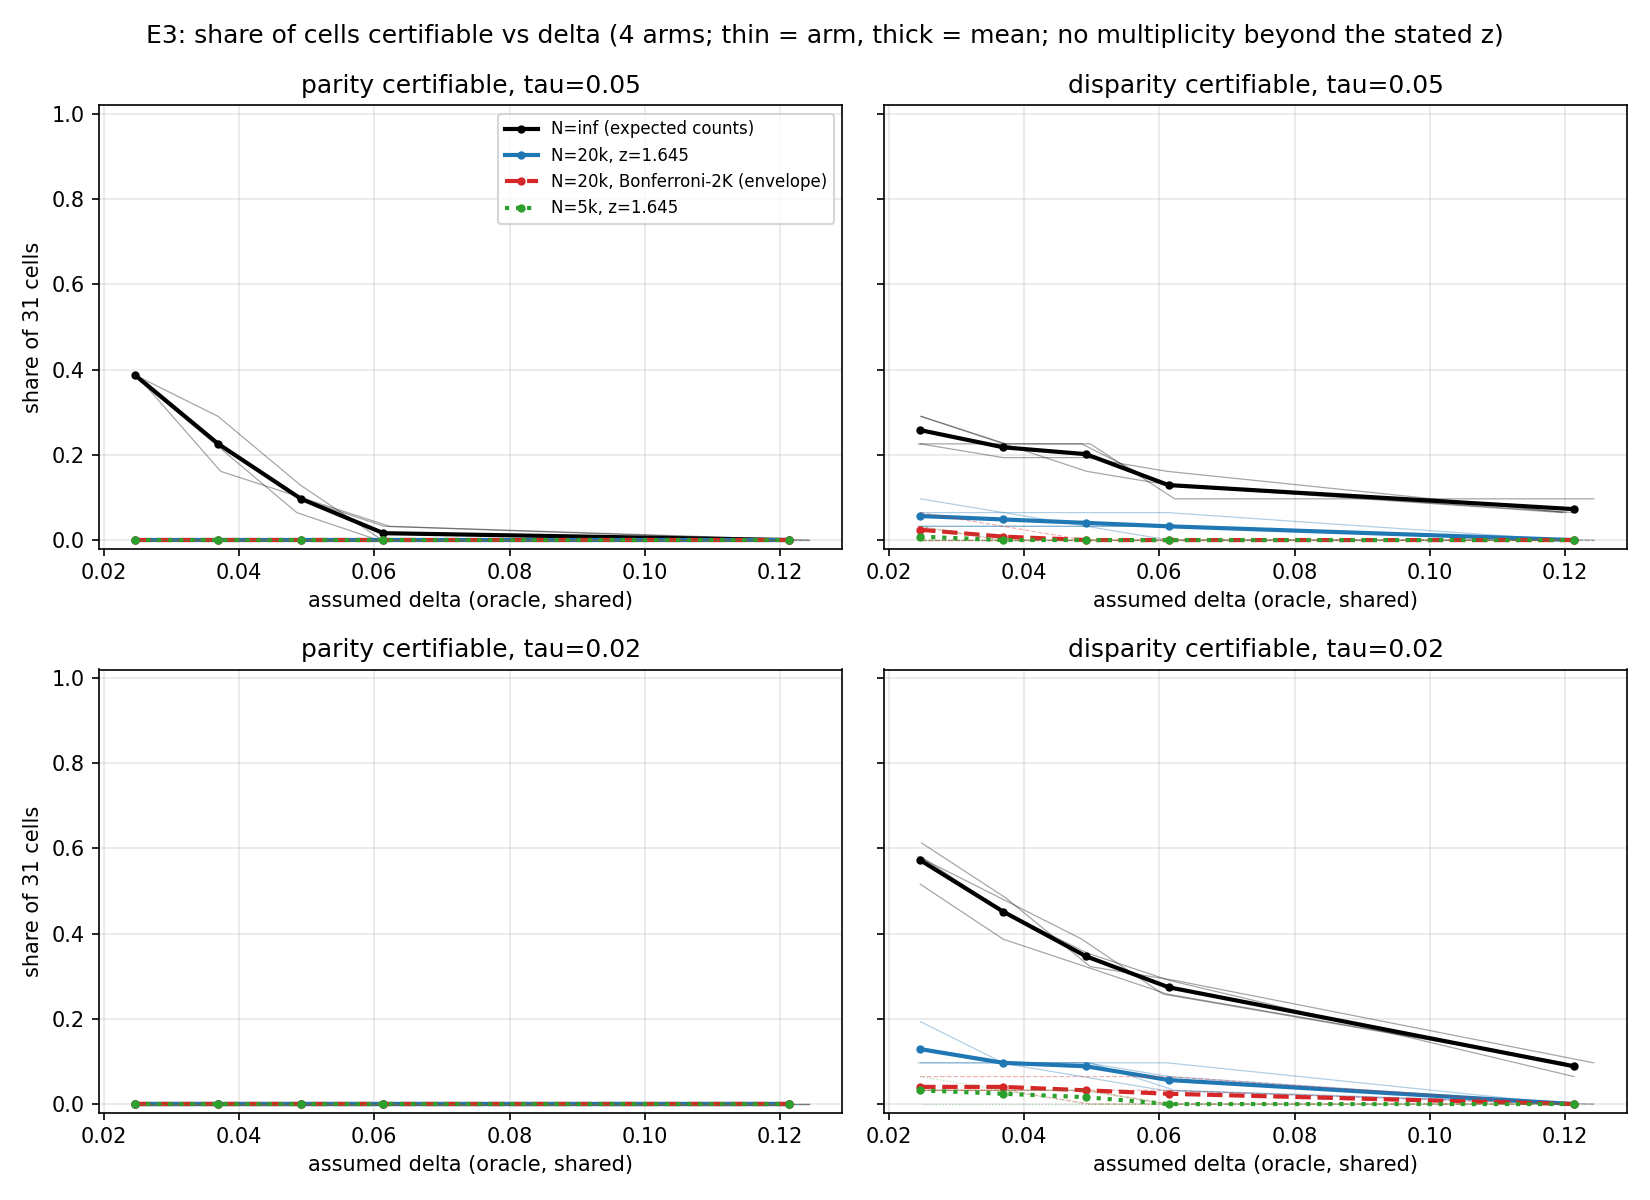
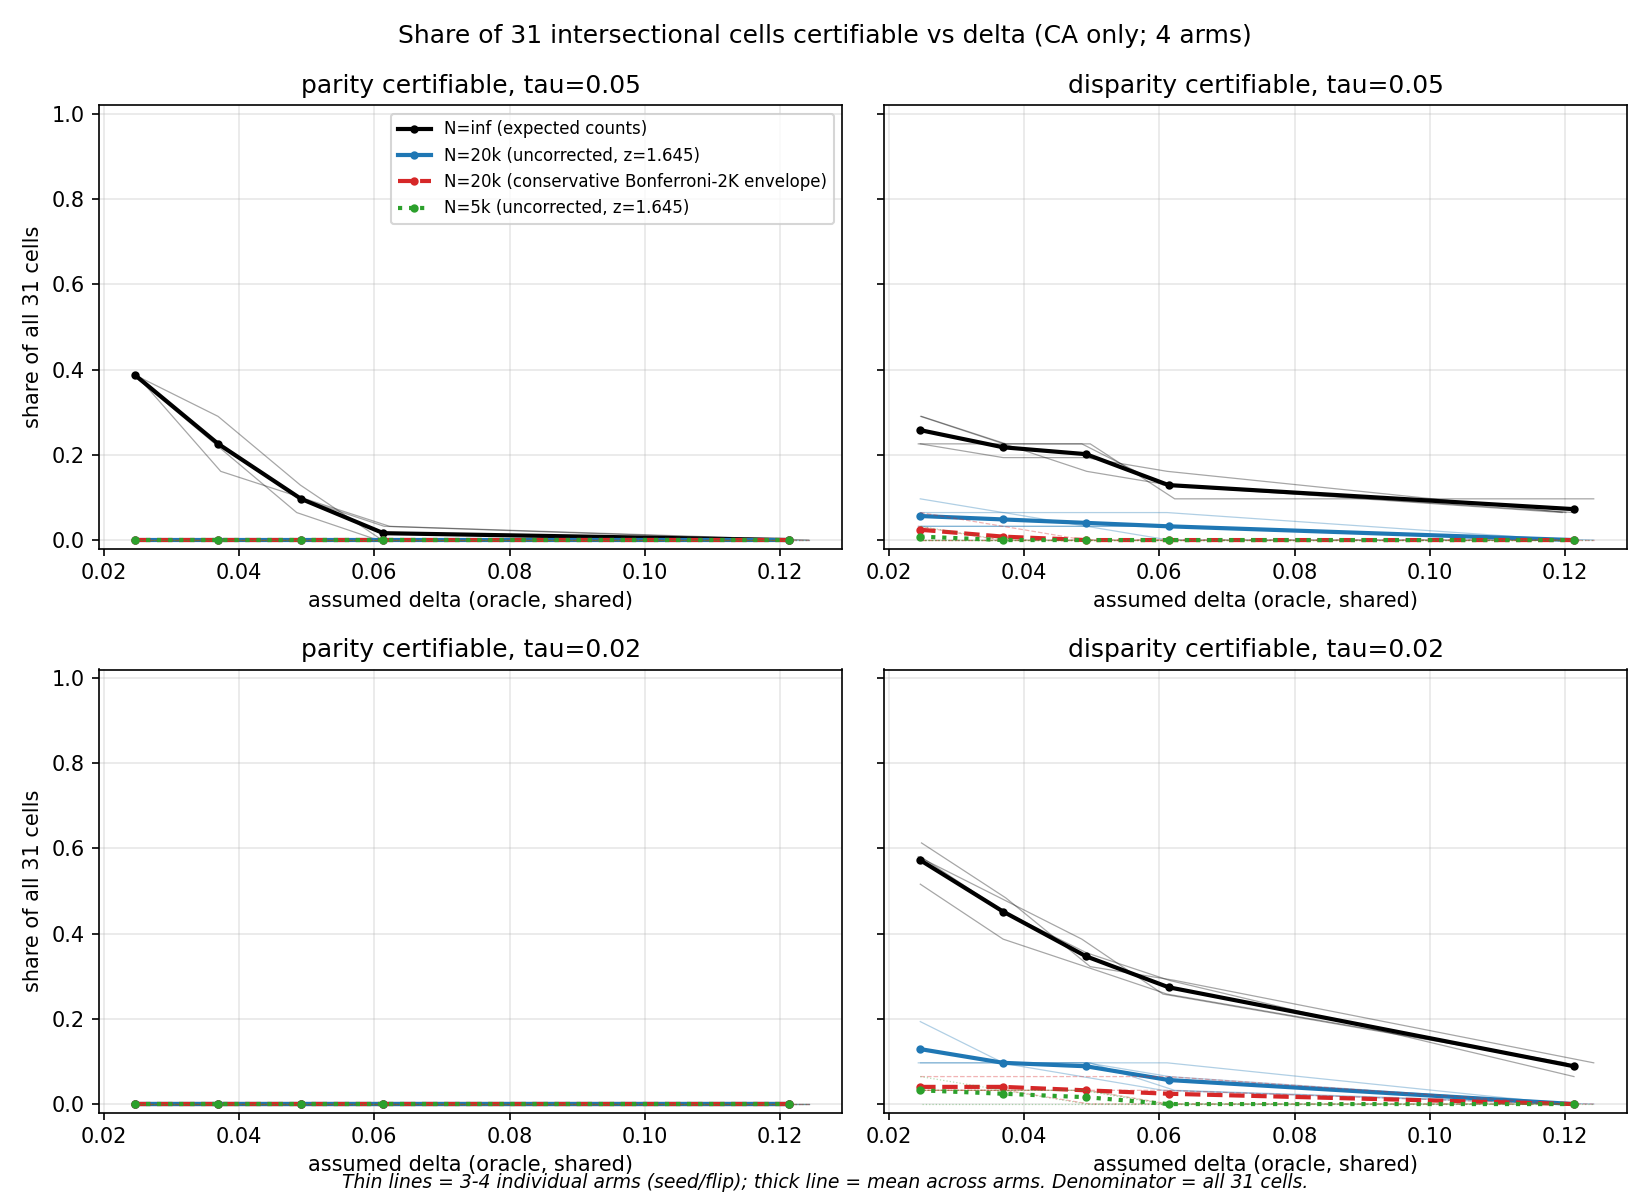
fix: address PR review blockers (centralize N* logic, fix b8c selection, paths, and NaN checks)

diff --git a/smoke tests/b8c_trunc_diag.py b/smoke tests/b8c_trunc_diag.py
@@ -4,16 +4,16 @@ POST-HOC diagnostic, not pre-registered. Arms: orig N*, truncation-aware N* (tru
 Truncation-aware N*: scale the pool counts of (cell, ref) by N/n_pool, apply m_min=10 (expected-count truncation), and take the
 smallest N from which the certificate condition (z=1.645, assumed delta) holds for all larger N on a log grid.
 Reads smoke tests/results/b8c_crossover_{STATE}_{SEED}_{FLIP}_g{GAMMA}.csv (all that exist), writes smoke tests/results/b8c_trunc_diag_{STATE}.csv.
-Needs bounds.py, common.py. Env: STATE (CA).  Run: python "smoke tests/results/b8c_trunc_diag.py"
+Needs bounds.py, common.py. Env: STATE (CA).  Run: python "smoke tests/b8c_trunc_diag.py"
 """
 import os, re, glob, numpy as np, pandas as pd
 pd.set_option("display.max_columns", 30)
 
-from bounds import Cell, gap
+# NOTE: Imported nstar_trunc_exp from bounds
+from bounds import Cell, gap, nstar_trunc_exp
 from common import build, J, M_MIN_DEFAULT
 
 STATE, Z, M_MIN = os.environ.get("STATE", "CA"), 1.645, M_MIN_DEFAULT
-NGRID = np.geomspace(2000, 400000, 150)
 built = {}
 out = []
 
@@ -25,19 +25,9 @@ for f in sorted(glob.glob(f"smoke tests/results/b8c_crossover_{STATE}_*_g*.csv")
     S = built[(seed, flip)]; n, C = S.n, S.C; names = list(S.names)
     D, prop = S.select(G, S.eps0); gr = S.grouped(S.key, C * J, D, prop); dlt = S.amax(S.dgap(gr)[1])
     cnt = {k: gr[k].reshape(C, J) for k in ("n", "na", "ka")}
-    cexp = {"n": cnt["n"], "na": gr["A"].reshape(C, J), "ka": gr["Ay"].reshape(C, J)}   # expected counts under the audit DGP (D ~ Bern(prop))
+    cexp = {"n": cnt["n"], "na": gr["A"].reshape(C, J), "ka": gr["Ay"].reshape(C, J)}   # expected counts under the audit DGP
     cell = lambda c, s=1.0, E=False: Cell(*[(cexp if E else cnt)[k][c] * s for k in ("n", "na", "ka")])
     ref = S.ref
-
-    def passes(c, kind, t, s, E=False):
-        r = gap(cell(c, s, E), cell(ref, s, E), dlt, 0.0, M_MIN)
-        lo, hi = r["lo"] - Z * r["se_lo"], r["hi"] + Z * r["se_hi"]
-        return (lo > t or hi < -t) if kind == "disp" else (hi <= t and lo >= -t)
-
-    def nstar_trunc(c, kind, t, E=False):
-        ok = np.array([passes(c, kind, t, N / n, E) for N in NGRID]); bad = np.flatnonzero(~ok)
-        if len(bad) == 0: return NGRID[0]
-        return np.inf if bad[-1] == len(NGRID) - 1 else NGRID[bad[-1] + 1]
 
     def nstar_cf(c, kind, t, E=False):  # closed form (E=False reproduces the a12 N*; E=True = same formula on expected counts)
         r = gap(cell(c, 1.0, E), cell(ref, 1.0, E), dlt, 0.0, M_MIN)
@@ -47,10 +37,15 @@ for f in sorted(glob.glob(f"smoke tests/results/b8c_crossover_{STATE}_*_g*.csv")
 
     d = pd.read_csv(f)
     for _, r in d.iterrows():
-        c = names.index(r.cell); nt = nstar_trunc(c, r.kind, r.tau)
+        c = names.index(r.cell)
+        
+        # Use the unified nstar_trunc_exp from bounds.py
+        nt = nstar_trunc_exp(cell(c, 1.0, E=False), cell(ref, 1.0, E=False), dlt, r.tau, r.kind, Z, M_MIN, n)
+        nte = nstar_trunc_exp(cell(c, 1.0, E=True), cell(ref, 1.0, E=True), dlt, r.tau, r.kind, Z, M_MIN, n)
+        
         out.append(dict(seed=seed, flip=flip, gamma=G, tau=r.tau, kind=r.kind, cell=r.cell, n_cell=int(cnt["n"][c].sum()), Nstar=r.Nstar,
                         rebuild_relerr=abs(nstar_cf(c, r.kind, r.tau) / r.Nstar - 1), ng_at_Nstar=cnt["n"][c].sum() * r.Nstar / n,
-                        Nstar_trunc=nt, Nstar_exp=nstar_cf(c, r.kind, r.tau, True), Nstar_trunc_exp=nstar_trunc(c, r.kind, r.tau, True), N50=r.N50, flag=r.flag))
+                        Nstar_trunc=nt, Nstar_exp=nstar_cf(c, r.kind, r.tau, True), Nstar_trunc_exp=nte, N50=r.N50, flag=r.flag))
     print("done", f)
 
 T = pd.DataFrame(out)

diff --git a/smoke tests/b8c_n_sweep.py b/smoke tests/b8c_n_sweep.py
@@ -2,21 +2,29 @@
 B8c: N sweep, observed per-cell crossover vs closed-form N*.
 Needs bounds.py, common.py, multiplicity.py and the a12 CSV for the SAME (STATE, SEED, FLIP_SEED, GAMMA, M_MIN).
 Env: STATE (CA), SEED (0), FLIP_SEED (123), GAMMA (0.02), R (200)
+Run: python "smoke tests/b8c_n_sweep.py"
 """
 import os, numpy as np, pandas as pd
+import subprocess, json, hashlib
 from bounds import Cell, endpoints
 from multiplicity import holm, cell_pvalues, family_pvalues
 from common import build, J, M_MIN_DEFAULT
 
-try: 
-    GIT = subprocess.check_output(["git","rev-parse","HEAD"], text=True).strip()[:10] + ("+dirty" if subprocess.check_output(["git","status","--porcelain"], text=True).strip() else "")
-except Exception: 
-    GIT = "nogit"
-    
 STATE, SEED, FLIP_SEED = os.environ.get("STATE", "CA"), int(os.environ.get("SEED", 0)), int(os.environ.get("FLIP_SEED", 123))
-G, R, M_MIN, ALPHA = float(os.environ.get("GAMMA", 0.02)), int(os.environ.get("R", 200)), M_MIN_DEFAULT, 0.05   # M_MIN fixed at 10 (E4 decision)
+G, R, M_MIN, ALPHA = float(os.environ.get("GAMMA", 0.02)), int(os.environ.get("R", 200)), M_MIN_DEFAULT, 0.05
 TAUS = [0.05, 0.02]
 N_LIST = [5000, 10000, 20000, 35000, 50000, 75000, 100000, 150000, 195665]
+
+def _git():
+    try:
+        h = subprocess.check_output(["git", "rev-parse", "HEAD"], text=True).strip()
+        dirty = bool(subprocess.check_output(["git", "status", "--porcelain"], text=True).strip())
+        return h[:10] + ("+dirty" if dirty else "")
+    except Exception:
+        return "nogit"
+GIT = _git()
+print(f"git={GIT}")
+
 S = build(state=STATE, seed=SEED, flip_seed=FLIP_SEED)
 Y, n, C, names, ref, others, Dtrue = S.Y, S.n, S.C, S.names, S.ref, S.others, S.Dtrue
 key, K = S.key, len(others)
@@ -54,7 +62,7 @@ P = pd.DataFrame(rows); P.to_csv(f"smoke tests/results/b8c_power_{STATE}_{SEED}_
 def cross(Ns, pw):
     pw = np.asarray(pw)
     if np.isnan(pw).any(): return np.nan, "nan"
-    if pw[0] >= .5: return Ns[0], "left-censored" # already >=0.5 at smallest N: only an upper bound on N50
+    if pw[0] >= .5: return Ns[0], "left-censored"
     j = np.flatnonzero(pw >= .5)
     if len(j) == 0: return np.inf, "right-censored"
     j = j[0]; a, b = np.log(Ns[j-1]), np.log(Ns[j])
@@ -65,16 +73,17 @@ out = []
 for t in TAUS:
     for kind, col in (("disp", "pow_disp_unc"), ("par", "pow_par_unc")):
         for _, a in A.iterrows():
-            Nstar = a[f"Nstar_{kind}_unc@{t}"]
-            if not (N_LIST[0] <= Nstar <= N_LIST[-1]): continue            # only observable range
+            Nstar = a[f"Nstar_trunc_exp_{kind}@{t}"]
+            if not (N_LIST[0] <= Nstar <= N_LIST[-1]): continue
             sub = P[(P.tau == t) & (P.cell == a.cell)].sort_values("N")
             n50, flag = cross(sub.N.values, sub[col].values)
             out.append(dict(tau=t, kind=kind, cell=a.cell, Nstar=Nstar, N50=n50, flag=flag, ratio=n50 / Nstar,
                             ok=(flag == "ok") and (0.5 <= n50 / Nstar <= 2),
-                            definite_fail=(flag == "right-censored") and Nstar < N_LIST[-1] / 2,))
-O = pd.DataFrame(out); pd.set_option("display.width", 200)
+                            definite_fail=(flag == "right-censored") and Nstar < N_LIST[-1] / 2))
+
+O = pd.DataFrame(out); pd.set_option("display.width", 200, "display.max_columns", 30)
 print(O.round(2).to_string(index=False))
-if len(O): 
+if len(O):
     print("\npass (within 2x), flag=ok only:\n", O[O.flag == "ok"].groupby(["tau", "kind"]).ok.agg(["mean", "size"]).round(2))
     print("definite fails (right-censored, N* < pool/2):", int(O.definite_fail.sum()))
 

diff --git a/smoke tests/plot_e3.py b/smoke tests/plot_e3.py
@@ -52,8 +52,10 @@ def series(d):
 S = {k: series(d) for k, d in arms.items()}
 pd.concat([s.assign(seed=k[0], flip=k[1]) for k, s in S.items()]).to_csv(os.path.join(OUT, "e3_summary.csv"), index=False)
 
-STY = {"inf": ("k", "-", "N=inf (expected counts)"), "unc20k": ("C0", "-", "N=20k, z=1.645"),
-       "bon20k": ("C3", "--", "N=20k, Bonferroni-2K (envelope)"), "unc5k": ("C2", ":", "N=5k, z=1.645")}
+STY = {"inf": ("k", "-", "N=inf (expected counts)"), 
+       "unc20k": ("C0", "-", "N=20k (uncorrected, z=1.645)"),
+       "bon20k": ("C3", "--", "N=20k (conservative Bonferroni-2K envelope)"), 
+       "unc5k": ("C2", ":", "N=5k (uncorrected, z=1.645)")}
 
 def band(ax, kind, t):
     for name, (c, ls, lab) in STY.items():
@@ -70,9 +72,10 @@ for i, t in enumerate(TAUS):
     for j, kind in enumerate(["par", "disp"]):
         ax = axs[i, j]; band(ax, kind, t)
         ax.set_title(f"{'parity' if kind == 'par' else 'disparity'} certifiable, tau={t}")
-        if j == 0: ax.set_ylabel("share of 31 cells")
+        if j == 0: ax.set_ylabel("share of all 31 cells")
 axs[0, 0].legend(fontsize=8)
-fig.suptitle(f"E3: share of cells certifiable vs delta ({len(S)} arms; thin = arm, thick = mean; no multiplicity beyond the stated z)")
+fig.suptitle(f"Share of 31 intersectional cells certifiable vs delta (CA only; {len(S)} arms)")
+fig.text(0.5, 0.01, "Thin lines = 3-4 individual arms (seed/flip); thick line = mean across arms. Denominator = all 31 cells.", ha="center", fontsize=9, style="italic")
 fig.tight_layout(); fig.savefig(os.path.join(OUT, "e3_fig1_frac_certifiable.png"), dpi=150); plt.close(fig)
 
 # ---------- Fig 2: tau_min curves across cells (median + IQR), pooled over arms at each gamma ----------
@@ -94,6 +97,7 @@ for ax, which, ttl in [(axs[0], 1, "tau_par_min: smallest tau at which parity is
 axs[0].set_ylabel("tau (median, IQR over cells x arms)"); axs[0].legend(fontsize=8)
 axs[0].text(0.02, 0.97, "parity certifiable at tau where curve < tau", transform=axs[0].transAxes, va="top", fontsize=7)
 axs[1].text(0.02, 0.97, "disparity certifiable at tau where curve > tau", transform=axs[1].transAxes, va="top", fontsize=7)
+fig.text(0.5, -0.02, "Thin lines = 3-4 individual arms (seed/flip). State = CA only. Metrics aggregated over cells and arms.", ha="center", fontsize=9, style="italic")
 fig.tight_layout(); fig.savefig(os.path.join(OUT, "e3_fig2_tau_curves.png"), dpi=150); plt.close(fig)
 
 # ---------- Fig 3: faithful Holm vs uncorrected power from b8b npz (optional) ----------

diff --git a/experiments/check_breakdown_identity.py b/experiments/check_breakdown_identity.py
@@ -21,7 +21,8 @@ ref, others, names = S.ref, S.others, S.names
 s5, key = S.s5, S.key
 select, grouped, amax = S.select, S.grouped, S.amax
 
-csv_path = f"smoke tests/a12_controlled_{STATE}_{SEED}_{FLIP_SEED}.csv"
+# FIXED PATH
+csv_path = f"smoke tests/results/a12_controlled_{STATE}_{SEED}_{FLIP_SEED}.csv"
 df = pd.read_csv(csv_path)
 
 for g in df['gamma'].unique():
@@ -44,15 +45,19 @@ for g in df['gamma'].unique():
             Dlo_0 = cg_0["L"] - er_0["U"]
             S_total = cg_0["S"] + er_0["S"]
             
-            tau_par_min0 = tau - max(Dhi_0, -Dlo_0)
-            theoretical_d_star = tau_par_min0 / S_total if S_total > 0 else np.inf
+            # RENAMED to tau_minus_margin
+            tau_minus_margin = tau - max(Dhi_0, -Dlo_0)
+            theoretical_d_star = tau_minus_margin / S_total if S_total > 0 else np.inf
             
             d_star_par = row[f'd*_par@{tau}']
             
-            # check if d*_par matches theoretical
-            if abs(d_star_par - theoretical_d_star) > 1e-5:
+            # NaN-safe assertion check
+            bad = not np.isfinite(d_star_par) or not np.isfinite(theoretical_d_star) or (np.abs(d_star_par - theoretical_d_star) > 1e-5)
+            
+            if bad:
                 mismatches += 1
                 if mismatches <= 3:
-                    print(f"  MISMATCH {c_name} @tau={tau}: d*_par={d_star_par:.5f}, theory={theoretical_d_star:.5f}, diff={abs(d_star_par - theoretical_d_star):.6f}")
+                    diff_val = np.abs(d_star_par - theoretical_d_star) if np.isfinite(d_star_par) and np.isfinite(theoretical_d_star) else "NaN"
+                    print(f"  MISMATCH {c_name} @tau={tau}: d*_par={d_star_par:.5f}, theory={theoretical_d_star:.5f}, diff={diff_val}")
                     
         print(f"  Tau={tau}: {'PASS' if mismatches == 0 else f'FAIL ({mismatches} mismatches)'}")

diff --git a/smoke tests/a12_controlled_delta.py b/smoke tests/a12_controlled_delta.py
@@ -2,7 +2,7 @@
 A12: controlled-Delta semi-synthetic arm (pool level, N = infinity, noise-free propensity). 
 Extends smoke test 3 and needs bounds.py and common.py to be in the same folder / PYTHONPATH.
 
-python "smoke tests/results/a12_controlled_delta.py"
+python "smoke tests/a12_controlled_delta.py"
 
 Env: STATE (CA), SEED (0), FLIP_SEED (123), SYNTH=1 (offline logic test only)
 """
@@ -11,7 +11,7 @@ import numpy as np
 import pandas as pd
 import subprocess, json, hashlib
 from common import build, J, M_MIN_DEFAULT, GRID
-from bounds import Cell, endpoints, breakdown, gap, verdict, bonferroni_z
+from bounds import Cell, endpoints, breakdown, gap, verdict, nstar_trunc_exp, _scaled, bonferroni_z
 
 # CONFIG
 STATE, YEAR = os.environ.get("STATE", "CA"), "2018"
@@ -45,11 +45,12 @@ select, grouped, amax = S.select, S.grouped, S.amax
 
 Z_ZS = {"unc": 1.645, "bon": bonferroni_z(0.05, 2 * len(others))}
 
-NGRID = np.geomspace(1_000, 2_000_000, 240)
+# NGRID = np.geomspace(1_000, 2_000_000, 240)
 
+"""
 def _scaled(c, f): 
     return Cell(c.n_j * f, c.na_j * f, c.k_j * f)
-
+    
 def nstar_trunc_exp(cg, cref, delta, tau, kind, z, m_min, n_pool):
     want = "disparity" if kind == "disp" else "parity"
     good = np.array([verdict(_scaled(cg, N / n_pool), _scaled(cref, N / n_pool), delta, tau, z, m_min) == want for N in NGRID])
@@ -57,6 +58,7 @@ def nstar_trunc_exp(cg, cref, delta, tau, kind, z, m_min, n_pool):
     if len(bad) == 0: return float(NGRID[0])
     if bad[-1] == len(NGRID) - 1: return np.inf
     return float(NGRID[bad[-1] + 1])
+"""
 
 def exp_cols(cg, cref, dlt, n_pool, taus, zs, m_min, Ns=(5000, 20000)):
     eg, er = endpoints(cg, 0.0, m_min), endpoints(cref, 0.0, m_min)

diff --git a/core/bounds.py b/core/bounds.py
@@ -106,3 +106,19 @@ def breakdown(g, ref, tau, z=0.0, m_min=1, delta_ref=0.0, between=True):
 def bonferroni_z(alpha, K):
     """One-sided critical value at level alpha/K (baseline multiplicity; Holm/max-t are upgrades, not implemented)."""
     return NormalDist().inv_cdf(1 - alpha / K)
+
+# N* for a cell vs ref at audit size N (single implementation)
+NGRID = np.geomspace(1_000, 2_000_000, 300)      # ~2.5% step; inf if the verdict never holds on the grid
+
+def _scaled(c, f):
+    return Cell(c.n_j * f, c.na_j * f, c.k_j * f)
+
+def nstar_trunc_exp(g, ref, delta, tau, kind, z, m_min, n_pool):
+    """Smallest N on NGRID from which the z-certificate holds for ALL larger N. g/ref hold the pool's EXPECTED counts,
+    scaled by N/n_pool, m_min truncation applied. Validated at z=1.645 only. 'Last failure + 1' differs from
+    first-crossing N when the verdict is non-monotone in N (m_min truncation)."""
+    want = "disparity" if kind == "disp" else "parity"
+    ok = np.array([verdict(_scaled(g, N / n_pool), _scaled(ref, N / n_pool), delta, tau, z, m_min) == want for N in NGRID])
+    bad = np.flatnonzero(~ok)
+    if len(bad) == 0: return float(NGRID[0])
+    return np.inf if bad[-1] == len(NGRID) - 1 else float(NGRID[bad[-1] + 1])
